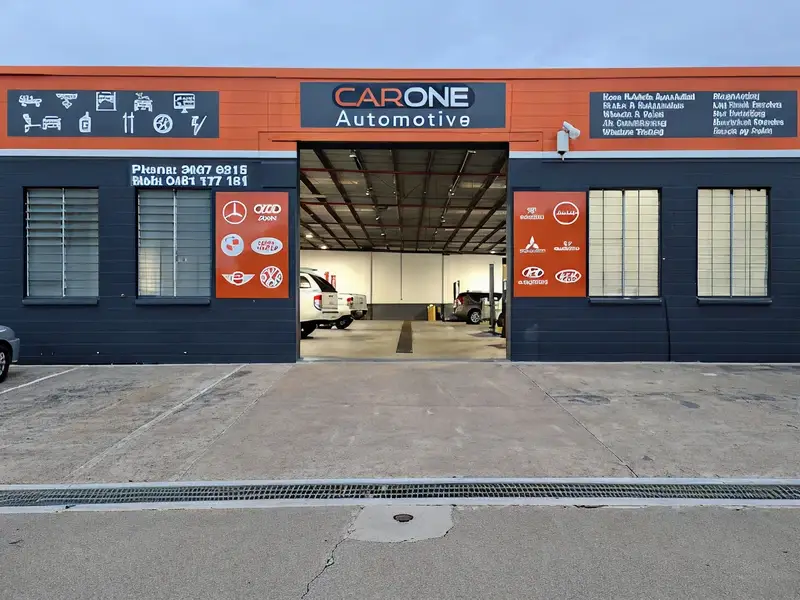
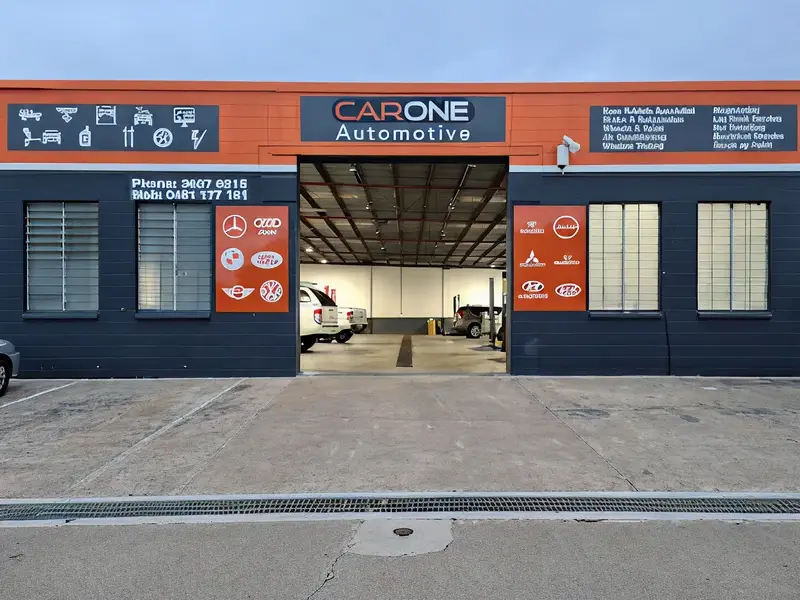
image changes

diff --git a/frontend/src/components/ServiceCard.jsx b/frontend/src/components/ServiceCard.jsx
@@ -59,12 +59,24 @@ export default function ServiceCard({
             style={{ borderColor: selected ? 'var(--color-primary)' : '#e5e7eb' }}
         >
             {(serviceImage || isCompact) && (
-                <div className={`relative overflow-hidden w-full ${isCompact ? `${containerHeight} bg-gray-50 rounded-lg flex items-center justify-center` : `bg-gray-200 rounded-lg ${containerHeight}`} flex-shrink-0`}>
+                <div
+                  className={`relative overflow-hidden w-full ${isCompact ? `${containerHeight} bg-gray-50 rounded-lg flex items-center justify-center` : `bg-gray-200 rounded-lg ${containerHeight}`} flex-shrink-0`}
+                  style={isWorkshop ? { maxHeight: '260px', minHeight: '120px' } : {}}
+                >
                     {serviceImage ? (
                         <img
                             src={serviceImage}
                             alt={serviceName}
-                            className={isCompact ? 'w-16 h-16 sm:w-28 sm:h-28 object-contain' : isService ? 'w-full h-full object-cover object-center rounded-lg' : 'w-full h-full object-cover rounded-lg'}
+                            className={
+                              isCompact
+                                ? 'w-16 h-16 sm:w-28 sm:h-28 object-contain'
+                                : isService
+                                  ? 'w-full h-full object-cover object-center rounded-lg'
+                                  : isWorkshop
+                                    ? 'w-full h-full object-cover object-center rounded-lg'
+                                    : 'w-full h-full object-cover rounded-lg'
+                            }
+                            style={isWorkshop ? { aspectRatio: '16/5', width: '100%', height: '100%', objectFit: 'cover', objectPosition: 'top' } : {}}
                             width={imageWidth}
                             height={imageHeight}
                         />

diff --git a/frontend/src/components/steps/Step0Workshop.jsx b/frontend/src/components/steps/Step0Workshop.jsx
@@ -39,7 +39,10 @@ export default function Step0Workshop({ bookingData, updateBookingData, onAutoAd
             service={service}
             selected={bookingData.workshop?.id === service.id}
             variant="workshop"
-            containerHeight="h-36 sm:h-28 md:h-32 lg:h-40"
+            // Responsive, larger image area, aspect ratio 16:5 for banner look
+            containerHeight="aspect-[16/5] min-h-[120px] sm:min-h-[140px] md:min-h-[180px] lg:min-h-[210px] xl:min-h-[240px]"
+            imageHeight={320}
+            imageWidth={960}
             index={idx}
             onSelect={() => {
               if (onAutoAdvance) {
